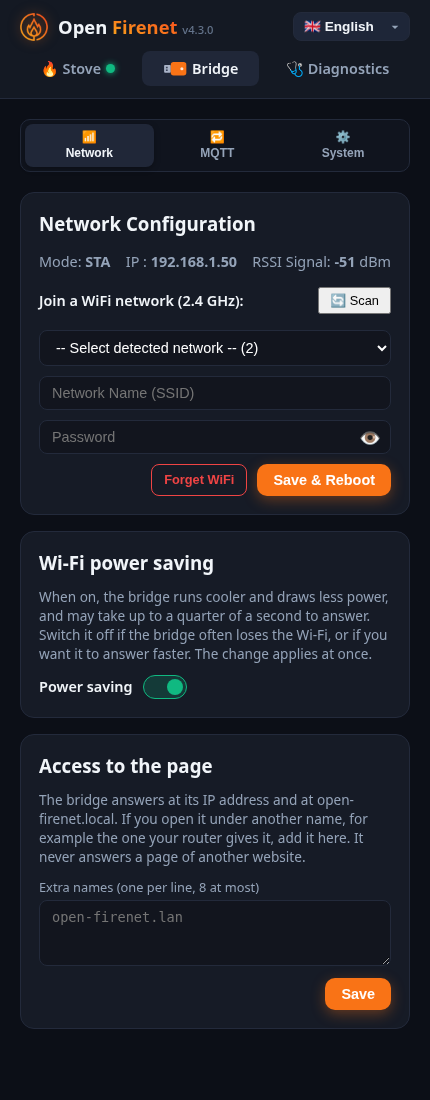
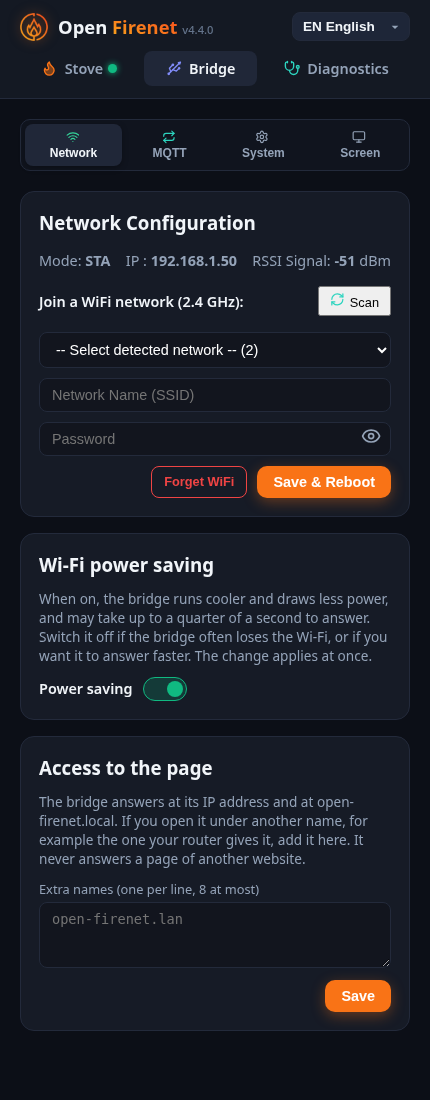
docs: refresh the screenshots and describe the Bridge > Screen tab

diff --git a/README.md b/README.md
@@ -235,10 +235,15 @@ Once connected, open **`http://open-firenet.local`** in any web browser (or use 
   <img src="assets/ui-desktop-bridge.png" alt="Open Firenet Web UI - Bridge tab, Network: Wi-Fi, power saving, access to the page" width="760">
 </p>
 
-- **Bridge tab** (`/#bridge`), in three tabs:
+- **Bridge tab** (`/#bridge`), in four tabs:
   - **Network**: IP, signal strength, Wi-Fi scan, Wi-Fi reconfiguration & reset; **Wi-Fi power saving** (on by default; switch it off if the bridge often loses the Wi-Fi or should answer faster); **access to the page**, the extra names under which the bridge accepts to answer (see [Who can call the API](#who-can-call-the-api))
   - **MQTT**: broker settings and connection status (see [MQTT](#mqtt))
   - **System**: firmware version, uptime, cause of the last restart, free memory and chip temperature; delay between frames sent to the stove (50 – 600 ms, default 150 ms); **restart** of the bridge
+  - **Screen** (after System): the board with a screen (LilyGO T-Dongle-S3), the screens shown and their order, the time per screen, the backlight level and its dimming after inactivity (see [Small screen](#small-screen-lilygo-t-dongle-s3))
+
+<p align="center">
+  <img src="assets/ui-desktop-bridge-screen.png" alt="Open Firenet Web UI - Bridge tab, Screen: hardware, display settings and the screens shown" width="760">
+</p>
 
 <p align="center">
   <img src="assets/ui-desktop-diagnostics.png" alt="Open Firenet Web UI - Diagnostics tab: link with the stove, exchange log, all values" width="760">
